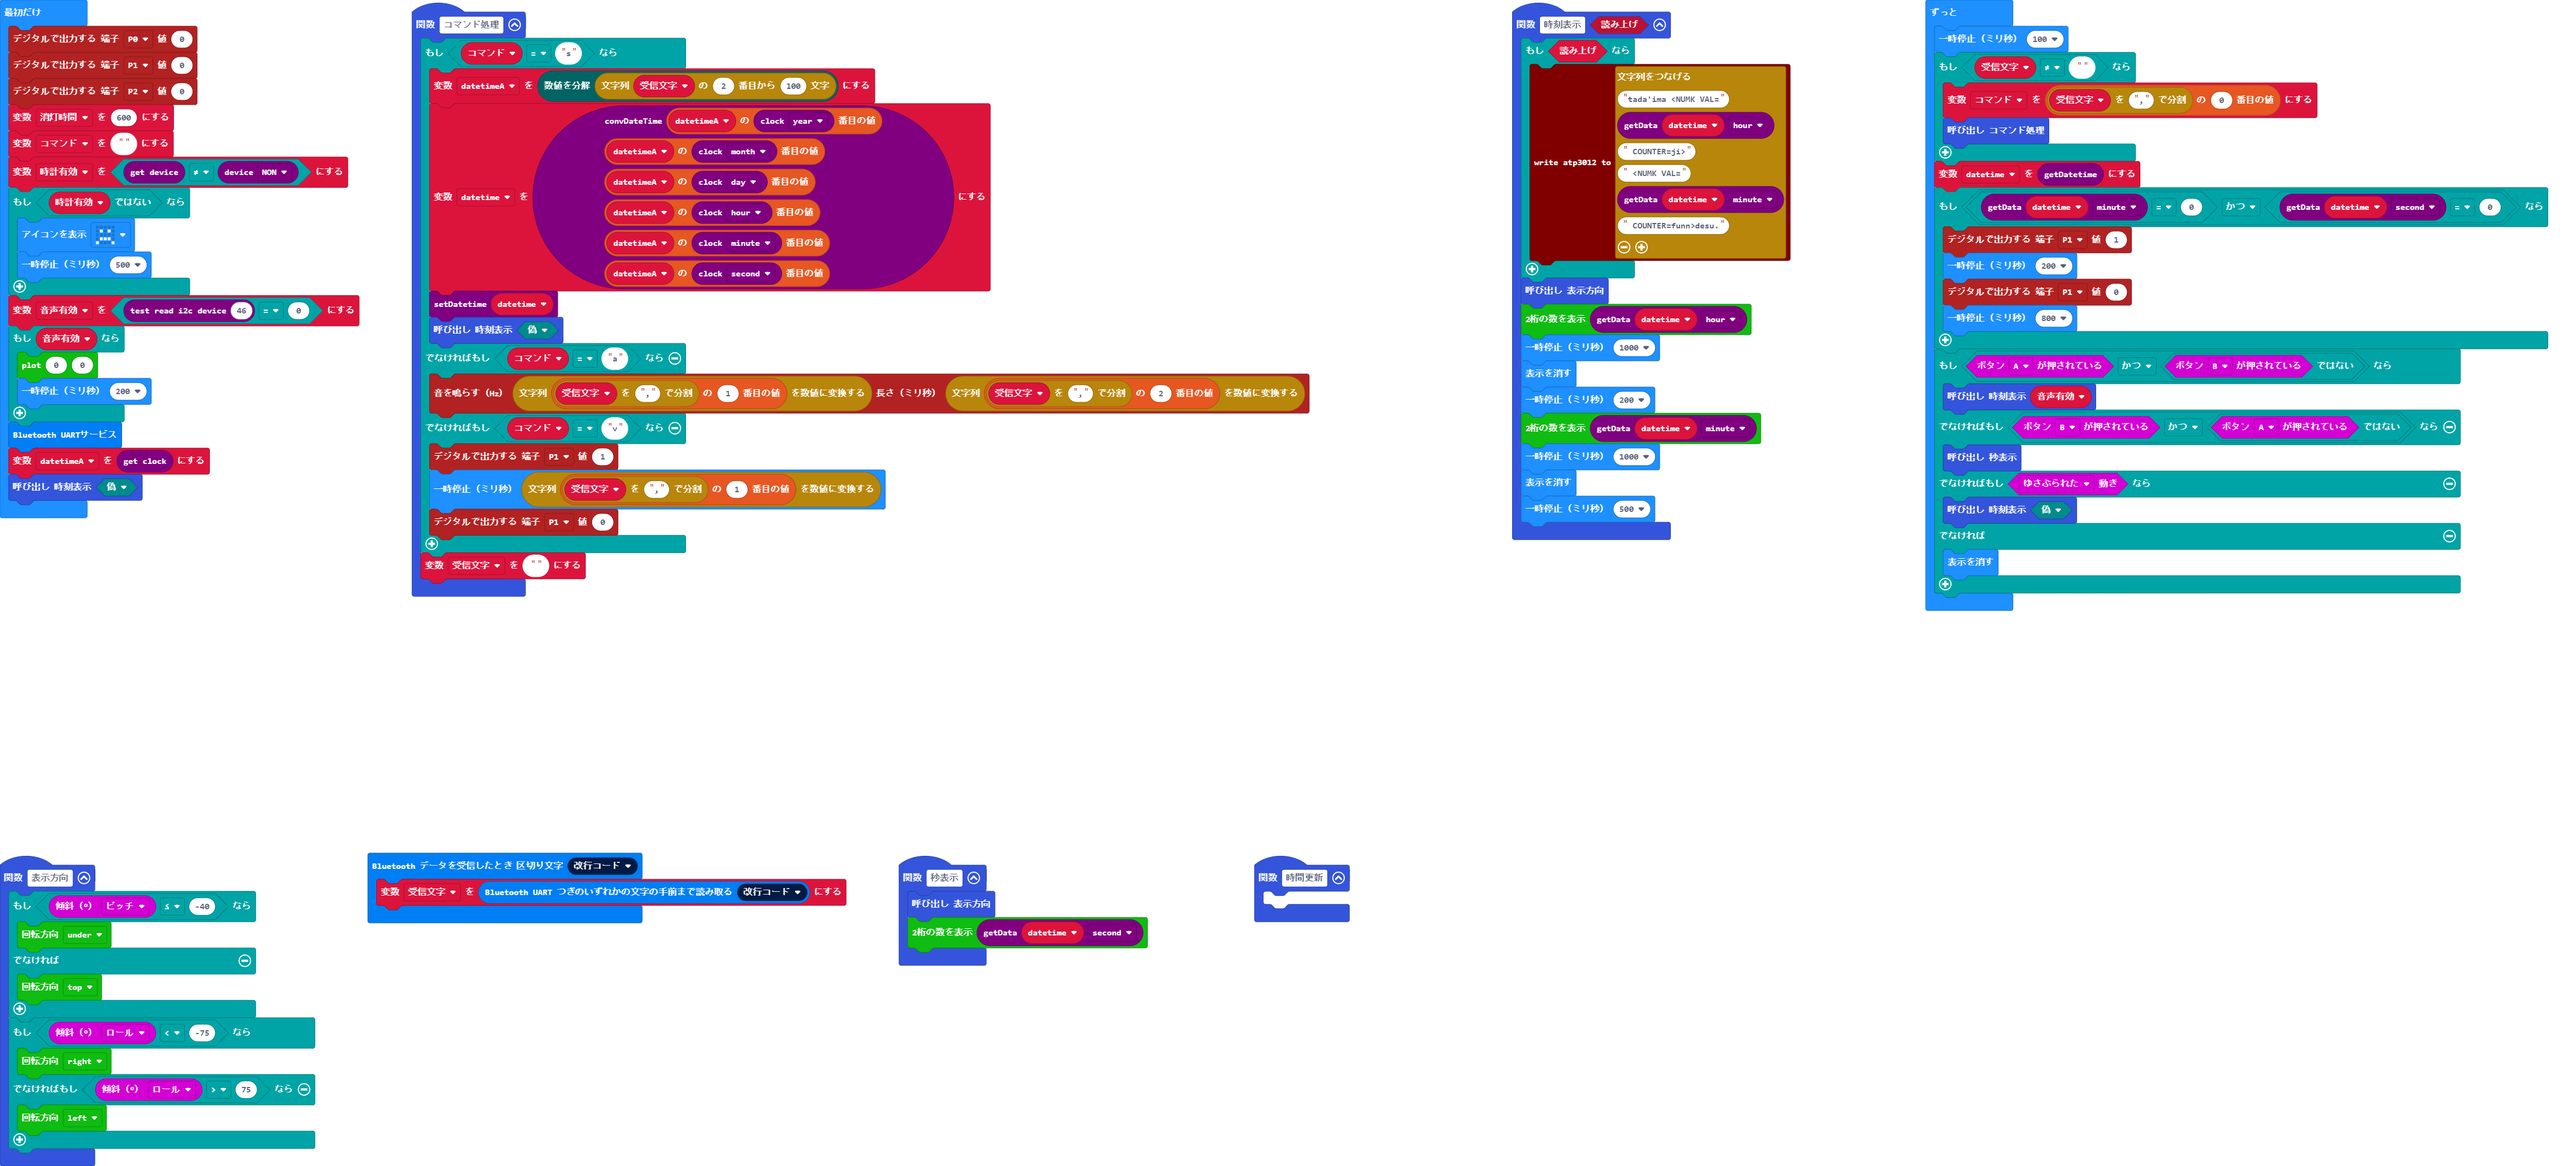
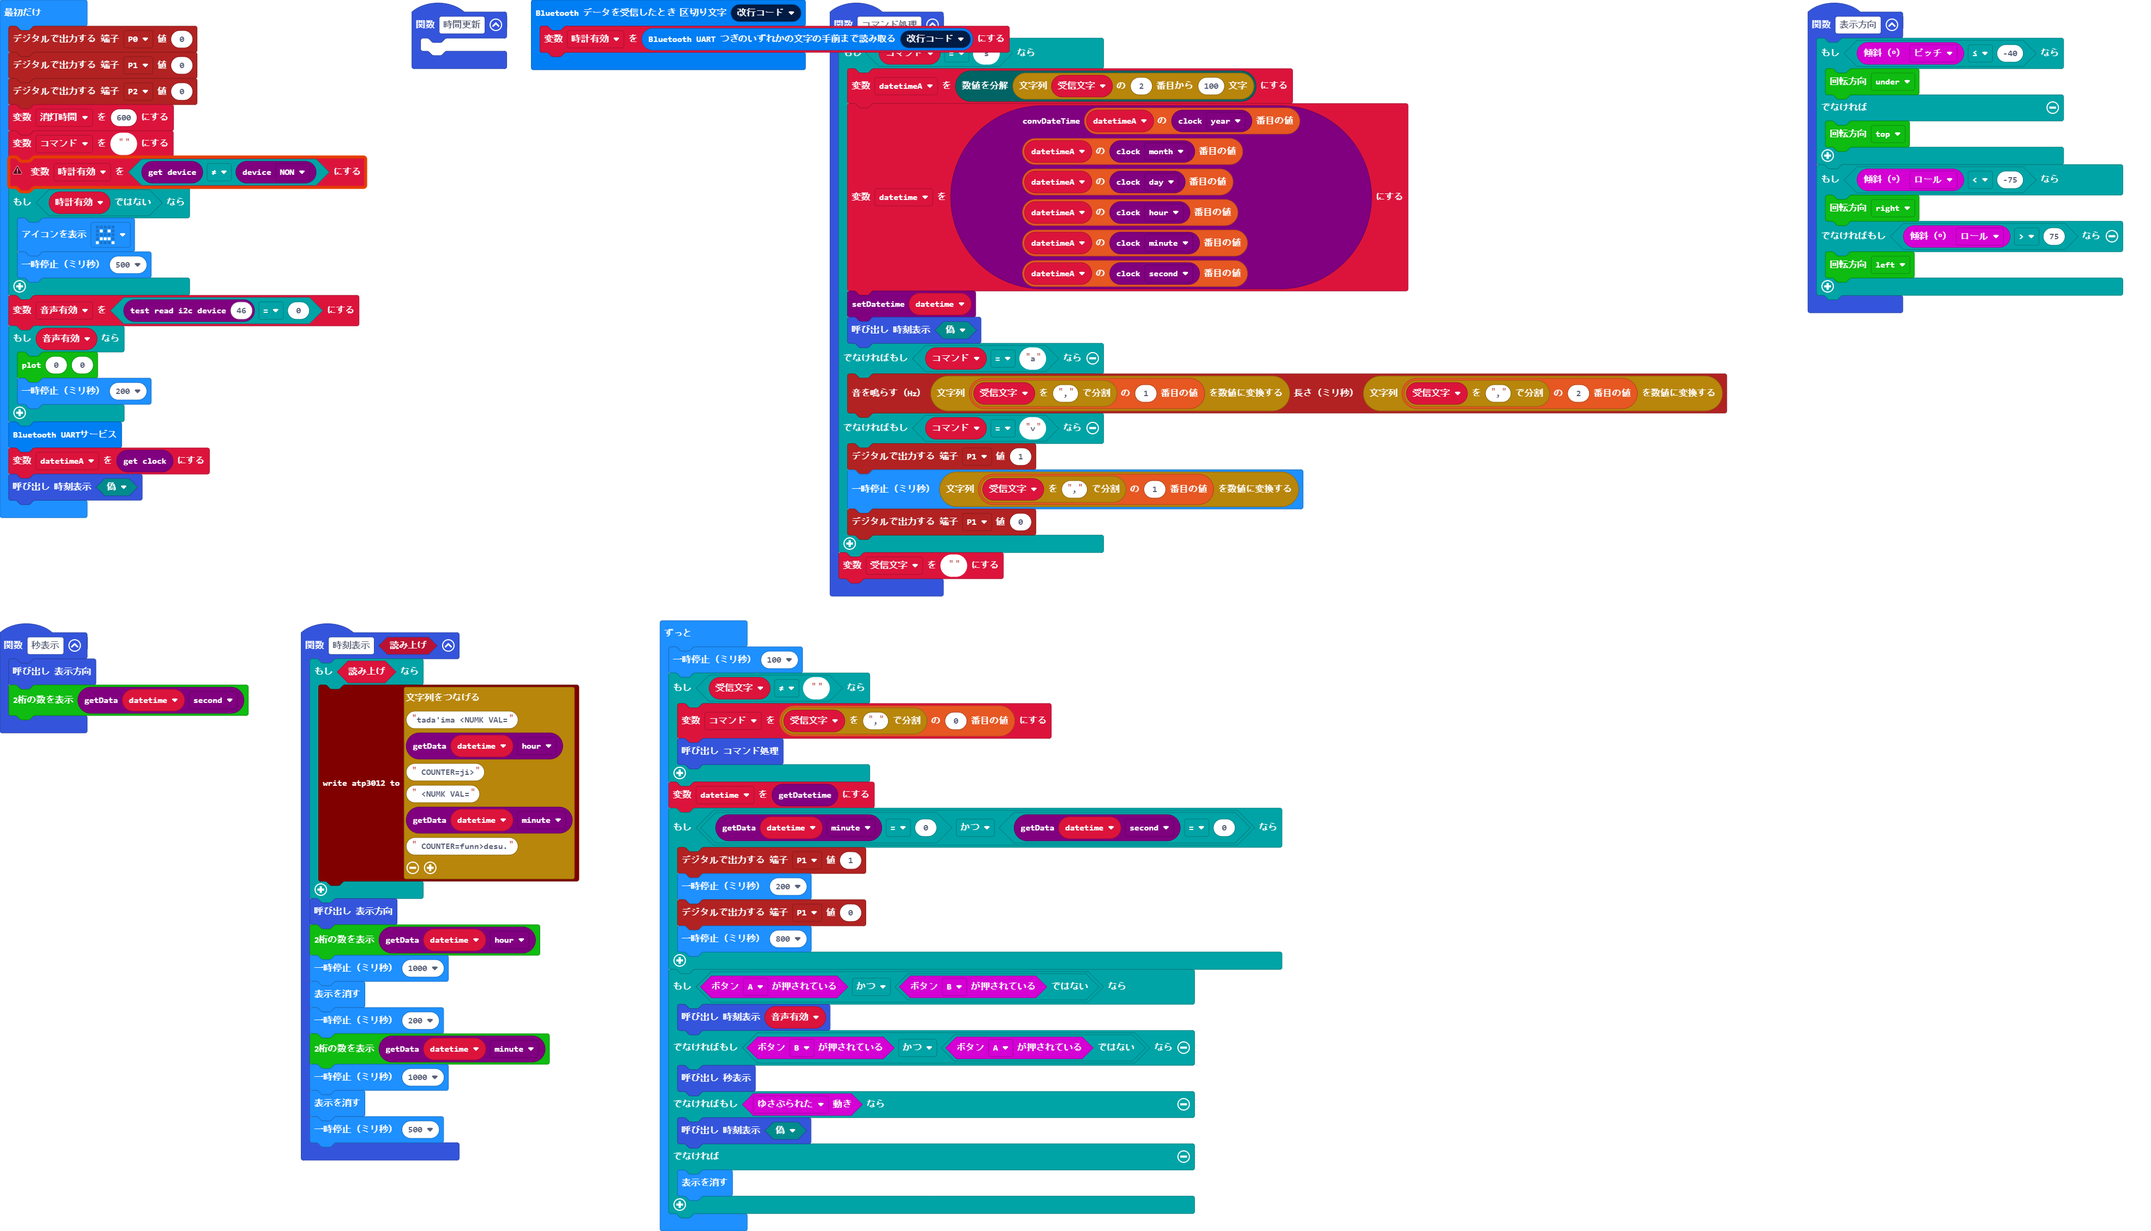
Update pxt.json, main.blocks, main.ts, main.py

diff --git a/main.ts b/main.ts
@@ -2,7 +2,7 @@ function 時間更新 () {
 	
 }
 bluetooth.onUartDataReceived(serial.delimiters(Delimiters.NewLine), function () {
-    受信文字 = bluetooth.uartReadUntil(serial.delimiters(Delimiters.NewLine))
+    時計有効 = bluetooth.uartReadUntil(serial.delimiters(Delimiters.NewLine))
 })
 function コマンド処理 () {
     if (コマンド == "s") {
@@ -59,13 +59,14 @@ function 時刻表示 (読み上げ: boolean) {
 let datetime = 0
 let 受信文字 = ""
 let datetimeA: number[] = []
+let 時計有効 = ""
 let コマンド = ""
 pins.digitalWritePin(DigitalPin.P0, 0)
 pins.digitalWritePin(DigitalPin.P1, 0)
 pins.digitalWritePin(DigitalPin.P2, 0)
 let 消灯時間 = 600
 コマンド = ""
-let 時計有効 = rtc.getDevice() != rtc.getClockDevice(rtcType.NON)
+時計有効 = rtc.getDevice() != rtc.getClockDevice(rtcType.NON)
 if (!(時計有効)) {
     basic.showIcon(IconNames.Sad)
     basic.pause(500)

diff --git a/main.py b/main.py
@@ -1,0 +1,95 @@
+def 時間更新():
+    pass
+
+def on_uart_data_received():
+    global 受信文字
+    受信文字 = bluetooth.uartReadUntil(serial.delimiters(Delimiters.NEW_LINE))
+bluetooth.on_uart_data_received(serial.delimiters(Delimiters.NEW_LINE),
+    on_uart_data_received)
+
+def コマンド処理():
+    global datetimeA, datetime, 受信文字
+    if コマンド == "s":
+        datetimeA = split.split_num(受信文字.substr(2, 100))
+        datetime = rtc.conv_date_time(datetimeA[rtc.get_clock_data(clockData.YEAR)],
+            datetimeA[rtc.get_clock_data(clockData.MONTH)],
+            datetimeA[rtc.get_clock_data(clockData.DAY)],
+            datetimeA[rtc.get_clock_data(clockData.HOUR)],
+            datetimeA[rtc.get_clock_data(clockData.MINUTE)],
+            datetimeA[rtc.get_clock_data(clockData.SECOND)])
+        rtc.set_datetime(datetime)
+        時刻表示(False)
+    elif コマンド == "a":
+        pins.analog_pitch(parse_float(受信文字.split(",")[1]),
+            parse_float(受信文字.split(",")[2]))
+    elif コマンド == "v":
+        pins.digital_write_pin(DigitalPin.P1, 1)
+        basic.pause(parse_float(受信文字.split(",")[1]))
+        pins.digital_write_pin(DigitalPin.P1, 0)
+    受信文字 = ""
+def 表示方向():
+    if input.rotation(Rotation.PITCH) <= -40:
+        watchfont.set_rotatation(rotate.UNDER)
+    else:
+        watchfont.set_rotatation(rotate.TOP)
+    if input.rotation(Rotation.ROLL) < -75:
+        watchfont.set_rotatation(rotate.RIGHT)
+    elif input.rotation(Rotation.ROLL) > 75:
+        watchfont.set_rotatation(rotate.LEFT)
+def 秒表示():
+    表示方向()
+    watchfont.show_number2(rtc.get_data(datetime, clockData.SECOND))
+def 時刻表示(読み上げ: bool):
+    if 読み上げ:
+        atp3012.write("tada'ima <NUMK VAL=" + str(rtc.get_data(datetime, clockData.HOUR)) + " COUNTER=ji>" + " <NUMK VAL=" + str(rtc.get_data(datetime, clockData.MINUTE)) + " COUNTER=funn>desu.")
+    表示方向()
+    watchfont.show_number2(rtc.get_data(datetime, clockData.HOUR))
+    basic.pause(1000)
+    basic.clear_screen()
+    basic.pause(200)
+    watchfont.show_number2(rtc.get_data(datetime, clockData.MINUTE))
+    basic.pause(1000)
+    basic.clear_screen()
+    basic.pause(500)
+datetime = 0
+受信文字 = ""
+datetimeA: List[number] = []
+コマンド = ""
+pins.digital_write_pin(DigitalPin.P0, 0)
+pins.digital_write_pin(DigitalPin.P1, 0)
+pins.digital_write_pin(DigitalPin.P2, 0)
+消灯時間 = 600
+コマンド = ""
+時計有効 = rtc.get_device() != rtc.get_clock_device(rtcType.NON)
+if not (時計有効):
+    basic.show_icon(IconNames.SAD)
+    basic.pause(500)
+音声有効 = rtc.test_read_i2c(46) == 0
+if 音声有効:
+    watchfont.plot(0, 0)
+    basic.pause(200)
+bluetooth.start_uart_service()
+datetimeA = rtc.get_clock()
+時刻表示(False)
+
+def on_forever():
+    global コマンド, datetime
+    basic.pause(100)
+    if 受信文字 != "":
+        コマンド = 受信文字.split(",")[0]
+        コマンド処理()
+    datetime = rtc.get_datetime()
+    if rtc.get_data(datetime, clockData.MINUTE) == 0 and rtc.get_data(datetime, clockData.SECOND) == 0:
+        pins.digital_write_pin(DigitalPin.P1, 1)
+        basic.pause(200)
+        pins.digital_write_pin(DigitalPin.P1, 0)
+        basic.pause(800)
+    if input.button_is_pressed(Button.A) and not (input.button_is_pressed(Button.B)):
+        時刻表示(音声有効)
+    elif input.button_is_pressed(Button.B) and not (input.button_is_pressed(Button.A)):
+        秒表示()
+    elif input.is_gesture(Gesture.SHAKE):
+        時刻表示(False)
+    else:
+        basic.clear_screen()
+basic.forever(on_forever)
